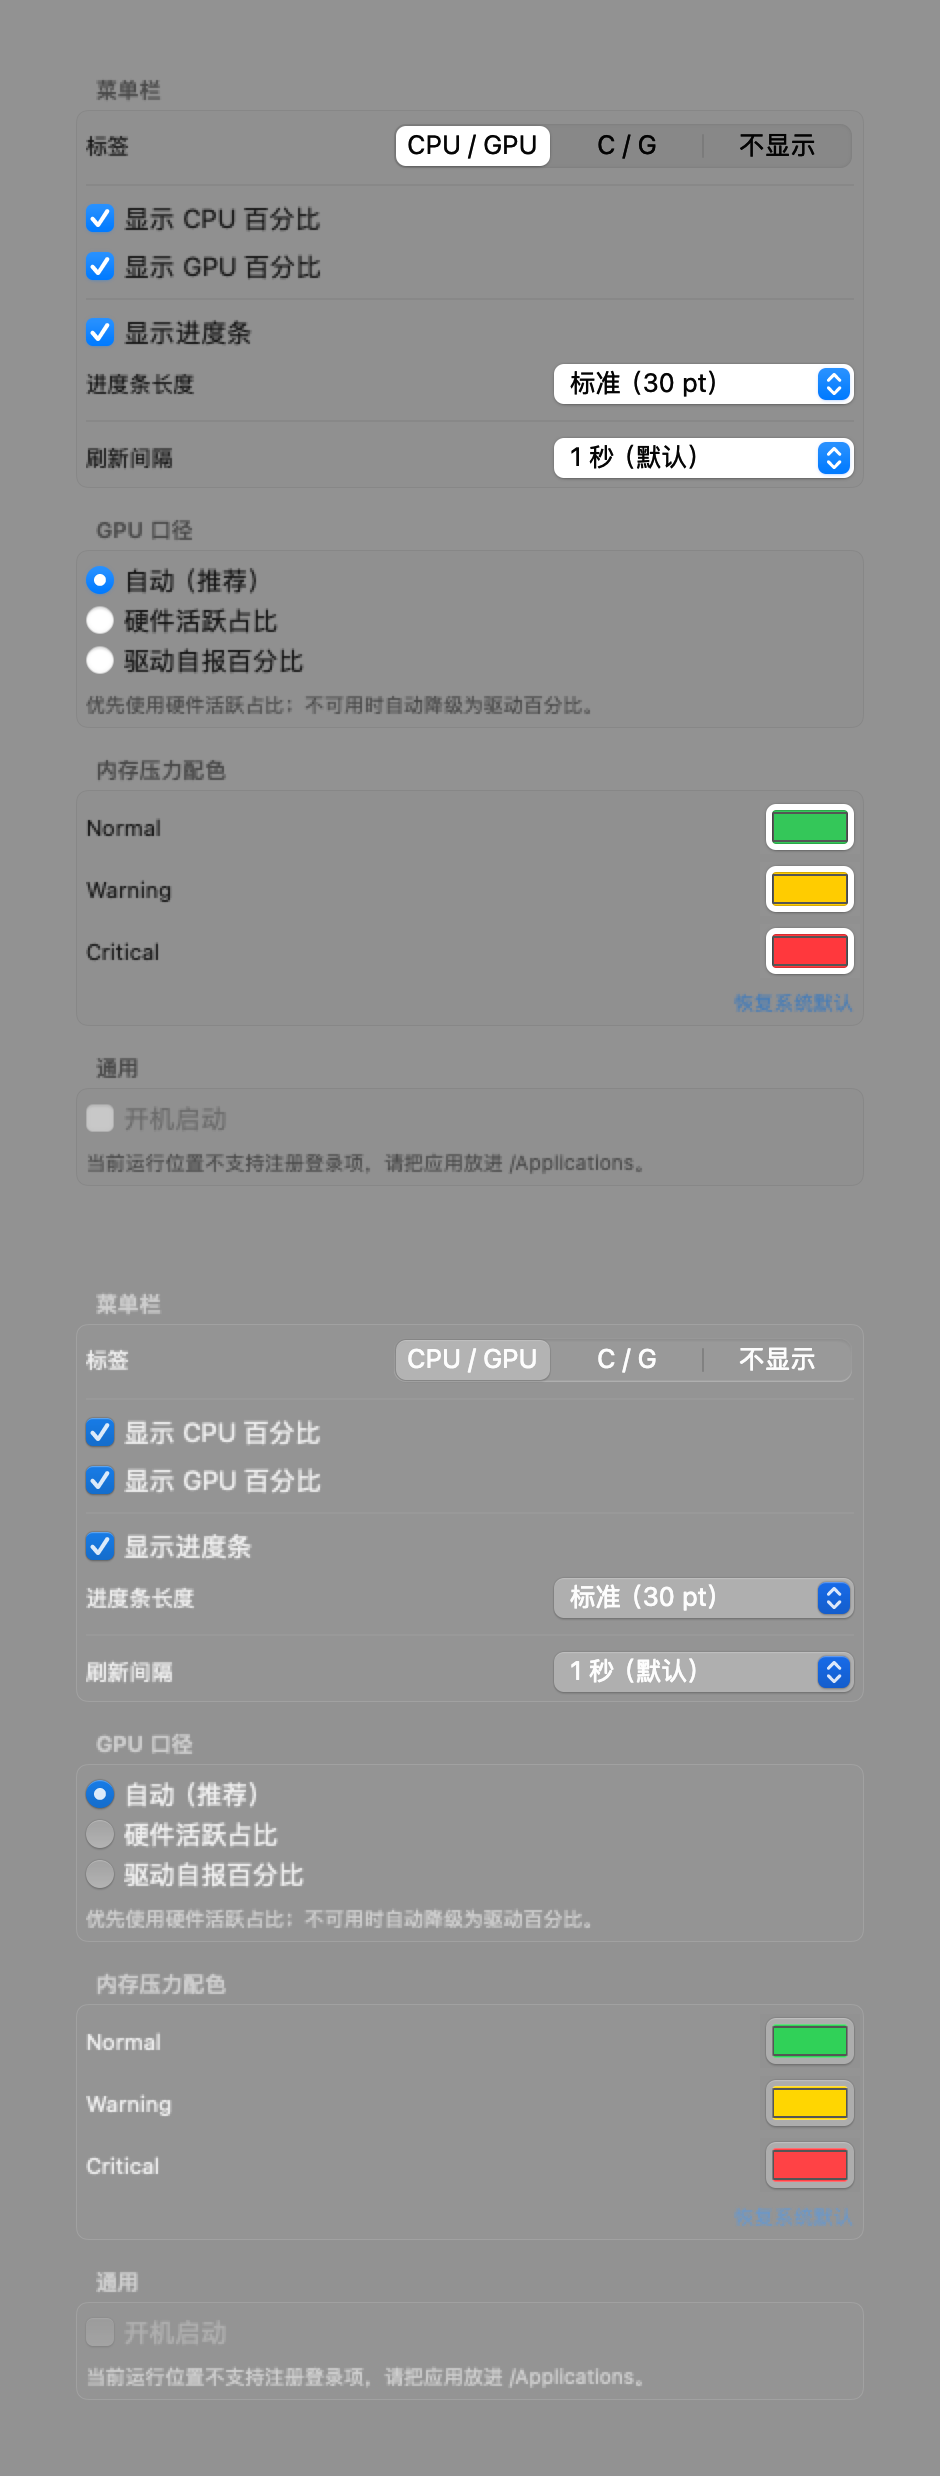
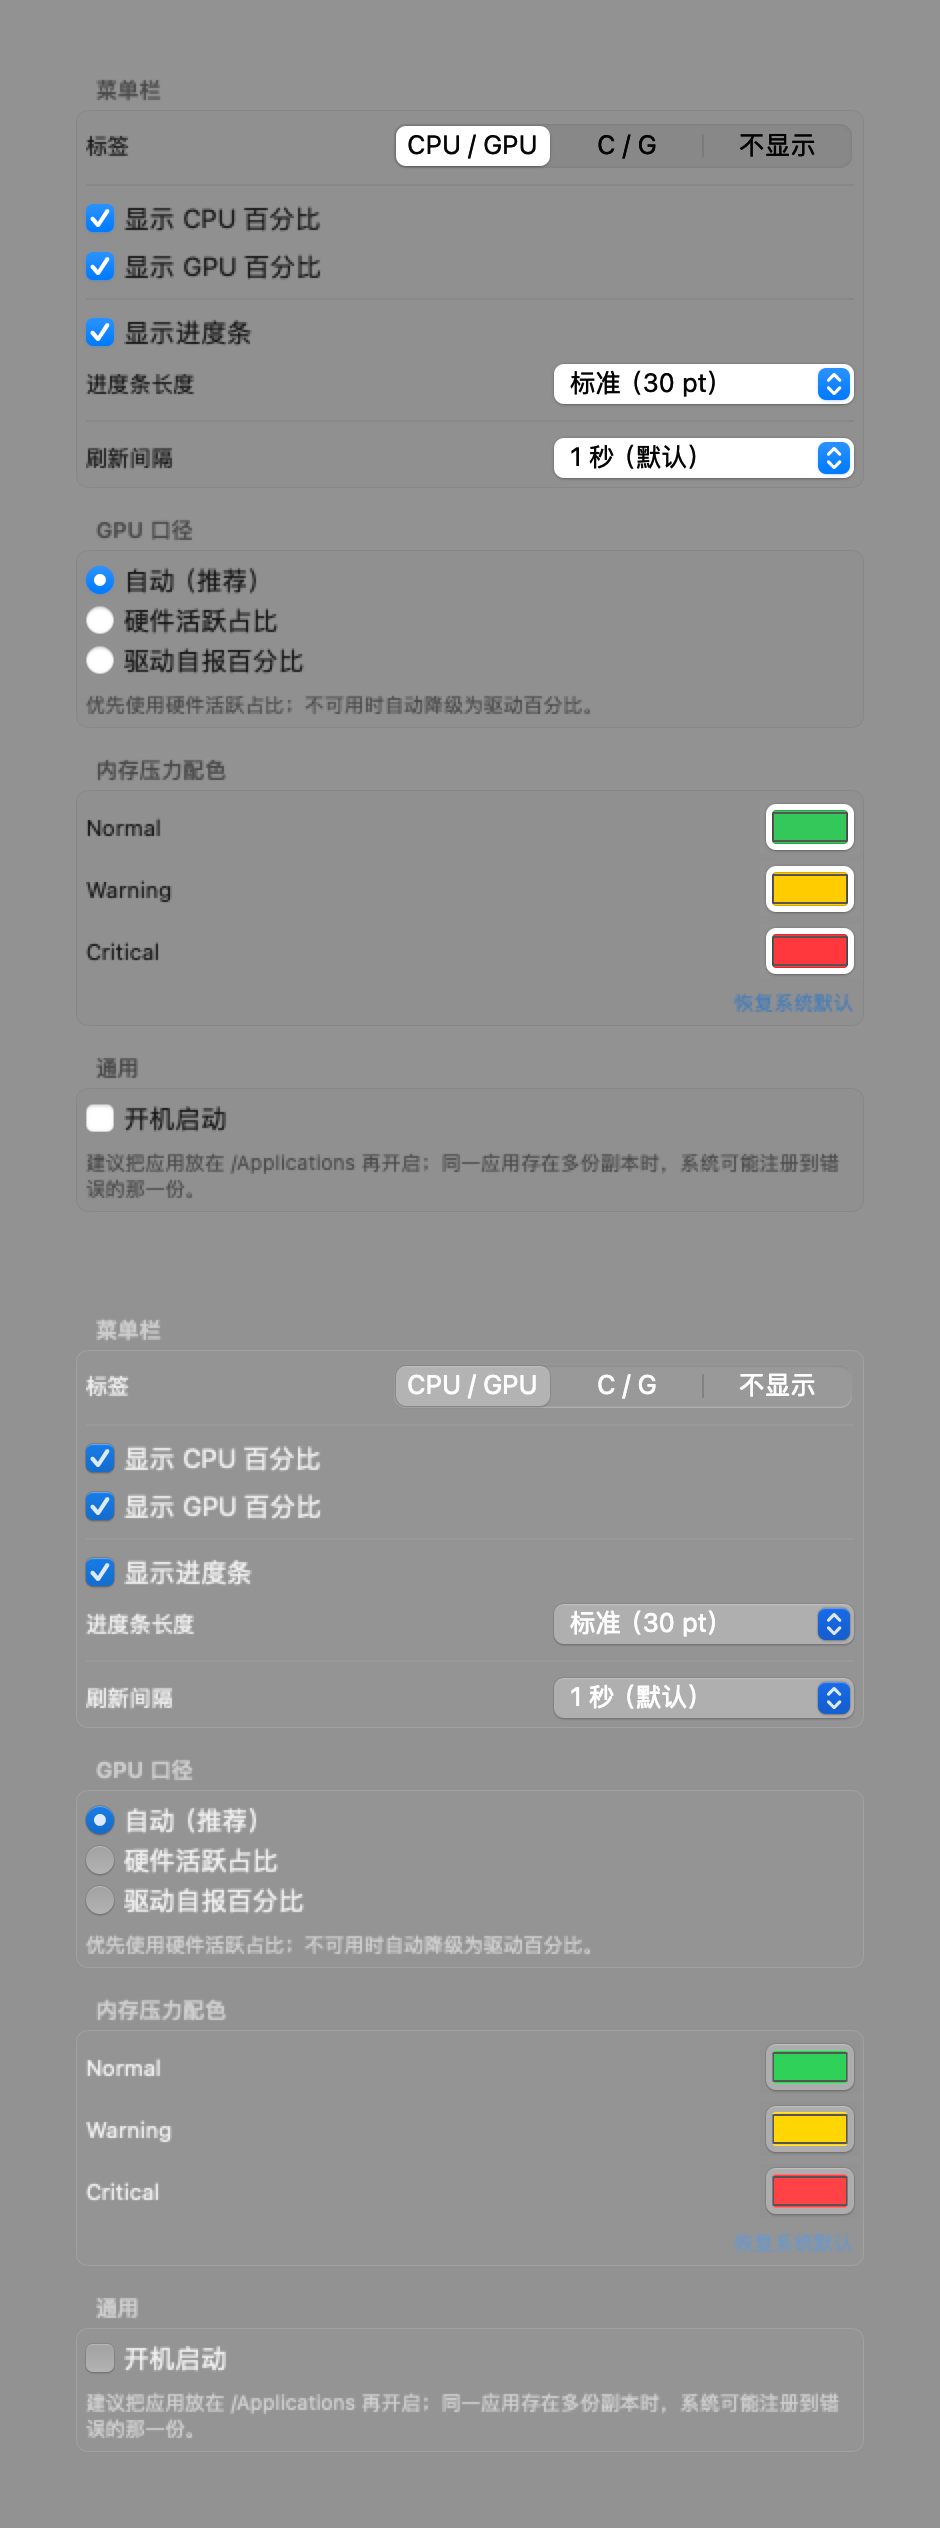
feat: Popover 内存明细对齐活动监视器（物理/已用/已缓存/交换）

diff --git a/MacStatusMonitor/Sources/MacStatusMonitor/App/AppDelegate.swift b/MacStatusMonitor/Sources/MacStatusMonitor/App/AppDelegate.swift
@@ -154,7 +154,8 @@ final class AppDelegate: NSObject, NSApplicationDelegate {
     private func runDumpMode(seconds: TimeInterval) {
         print(String(format: "数据自检：%.0f 秒，口径 = %@", seconds, settings.gpuMetric.displayName))
         print(pad("时间", 10) + pad("CPU%", 7, right: true) + pad("GPU%", 7, right: true)
-              + pad("压力", 9, right: true) + pad("空闲GB", 8, right: true) + "  来源 / 备注")
+              + pad("压力", 9, right: true) + pad("已用GB", 8, right: true)
+              + pad("缓存GB", 8, right: true) + pad("交换GB", 8, right: true) + "  来源 / 备注")
 
         var frames = 0
         let startedAt = Date()
@@ -164,12 +165,15 @@ final class AppDelegate: NSObject, NSApplicationDelegate {
             let cpu = snapshot.cpu.map { String(format: "%.1f", $0) } ?? "—"
             let gpu = snapshot.gpu.map { String(format: "%.1f", $0) } ?? "N/A"
             let pressure = snapshot.memoryPressure?.displayName ?? "?"
-            let free = snapshot.memoryFreeBytes.map { String(format: "%.2f", Double($0) / 1e9) } ?? "—"
+            let used = snapshot.memoryUsedBytes.map { String(format: "%.1f", Double($0) / 1_073_741_824) } ?? "—"
+            let cached = snapshot.memoryCachedBytes.map { String(format: "%.1f", Double($0) / 1_073_741_824) } ?? "—"
+            let swap = snapshot.swapUsedBytes.map { String(format: "%.1f", Double($0) / 1_073_741_824) } ?? "—"
             var note = snapshot.gpuSource ?? ""
             if let reason = snapshot.gpuUnavailableReason { note = reason }
             if let diagnostics = snapshot.gpuDiagnostics { note += "  [hw: \(diagnostics)]" }
             print(self.pad(self.clock(), 10) + self.pad(cpu, 7, right: true) + self.pad(gpu, 7, right: true)
-                  + self.pad(pressure, 9, right: true) + self.pad(free, 8, right: true) + "  " + note)
+                  + self.pad(pressure, 9, right: true) + self.pad(used, 8, right: true)
+                  + self.pad(cached, 8, right: true) + self.pad(swap, 8, right: true) + "  " + note)
         }
 
         DispatchQueue.main.asyncAfter(deadline: .now() + seconds) {
@@ -221,16 +225,20 @@ final class AppDelegate: NSObject, NSApplicationDelegate {
                     self.colorSettings.resetToDefaults()
                 }
 
+                // Popover 与设置窗口分开验证：设置窗口一旦成为 key window，
+                // transient Popover 会自动关闭，同时开会误报成"弹不出来"。
                 let shown = menuBar.debugShowPopover()
-                self.openSettings()
                 DispatchQueue.main.asyncAfter(deadline: .now() + 0.8) {
                     print("popover shown = \(shown) / \(menuBar.debugPopoverShown)  size = \(menuBar.debugPopoverSize)")
-                    if let window = self.settingsWindow?.window {
-                        print("settings window = \(window.frame.size)  visible=\(window.isVisible)")
+                    self.openSettings()
+                    DispatchQueue.main.asyncAfter(deadline: .now() + 0.6) {
+                        if let window = self.settingsWindow?.window {
+                            print("settings window = \(window.frame.size)  visible=\(window.isVisible)")
+                        }
+                        print("login item status = \(self.loginManager.debugStatus)")
+                        print("======================")
+                        NSApp.terminate(nil)
                     }
-                    print("login item status = \(self.loginManager.debugStatus)")
-                    print("======================")
-                    NSApp.terminate(nil)
                 }
             }
         }

diff --git a/MacStatusMonitor/Sources/MonitorKit/MemoryPressureMonitor.swift b/MacStatusMonitor/Sources/MonitorKit/MemoryPressureMonitor.swift
@@ -4,11 +4,17 @@ import Dispatch
 
 /// 内存明细（只用于 Popover 展示，不参与压力等级判定）。
 public struct MemoryDetails: Sendable {
-    public var freeBytes: UInt64
+    public var totalBytes: UInt64
+    /// 活动监视器的「已使用内存」= App Memory + Wired + Compressed
+    public var usedBytes: UInt64
+    /// 活动监视器的「已缓存文件」= 文件页 + 可清除页
+    public var cachedBytes: UInt64
+    /// 其中：App Memory（匿名页 − 可清除页）
+    public var appBytes: UInt64
     public var compressedBytes: UInt64
     public var wiredBytes: UInt64
+    public var freeBytes: UInt64
     public var swapUsedBytes: UInt64
-    public var totalBytes: UInt64
     public var rawLevel: Int32
 }
 
@@ -110,10 +116,6 @@ public final class MemoryPressureMonitor {
     }
 
     public func details() -> MemoryDetails {
-        var freeBytes: UInt64 = 0
-        var compressedBytes: UInt64 = 0
-        var wiredBytes: UInt64 = 0
-
         var vm = vm_statistics64()
         var count = mach_msg_type_number_t(MemoryLayout<vm_statistics64>.size / MemoryLayout<integer_t>.size)
         let result = withUnsafeMutablePointer(to: &vm) { pointer -> kern_return_t in
@@ -121,11 +123,30 @@ public final class MemoryPressureMonitor {
                 host_statistics64(host, HOST_VM_INFO64, rebound, &count)
             }
         }
+
+        var total: UInt64 = 0
+        var app: UInt64 = 0
+        var wired: UInt64 = 0
+        var compressed: UInt64 = 0
+        var cached: UInt64 = 0
+        var free: UInt64 = 0
+
         if result == KERN_SUCCESS {
             let page = UInt64(vm_kernel_page_size)
-            freeBytes = UInt64(vm.free_count) * page
-            compressedBytes = UInt64(vm.compressor_page_count) * page
-            wiredBytes = UInt64(vm.wire_count) * page
+            let internalPages = UInt64(vm.internal_page_count)
+            let externalPages = UInt64(vm.external_page_count)
+            let purgeablePages = UInt64(vm.purgeable_count)
+
+            // 与活动监视器口径一致：
+            //   App Memory   = 匿名页 − 可清除页
+            //   Cached Files = 文件页 + 可清除页
+            //   Memory Used  = App + Wired + Compressed
+            app = (internalPages > purgeablePages ? internalPages - purgeablePages : 0) * page
+            wired = UInt64(vm.wire_count) * page
+            compressed = UInt64(vm.compressor_page_count) * page
+            cached = (externalPages + purgeablePages) * page
+            free = UInt64(vm.free_count) * page
+            total = ProcessInfo.processInfo.physicalMemory
         }
 
         var swap = xsw_usage()
@@ -138,11 +159,14 @@ public final class MemoryPressureMonitor {
         }
 
         return MemoryDetails(
-            freeBytes: freeBytes,
-            compressedBytes: compressedBytes,
-            wiredBytes: wiredBytes,
+            totalBytes: total,
+            usedBytes: app + wired + compressed,
+            cachedBytes: cached,
+            appBytes: app,
+            compressedBytes: compressed,
+            wiredBytes: wired,
+            freeBytes: free,
             swapUsedBytes: swapUsed,
-            totalBytes: ProcessInfo.processInfo.physicalMemory,
             rawLevel: Self.readRawLevel()
         )
     }

diff --git a/MacStatusMonitor/Sources/MacStatusMonitor/Popover/MonitorPopoverView.swift b/MacStatusMonitor/Sources/MacStatusMonitor/Popover/MonitorPopoverView.swift
@@ -31,6 +31,7 @@ struct MonitorPopoverView: View {
                     detail: snapshot.gpuSource ?? "—"
                 )
                 pressureRow
+                memoryRows
             }
             .padding(.horizontal, 14)
             .padding(.vertical, 12)
@@ -76,13 +77,39 @@ struct MonitorPopoverView: View {
                 .foregroundStyle(snapshot.memoryPressure == nil ? .secondary : .primary)
 
             Spacer(minLength: 0)
-
-            if let free = snapshot.memoryFreeBytes, snapshot.physicalMemoryBytes > 0 {
-                Text(String(format: "可用 %.1f GB", Double(free) / 1e9))
-                    .font(.system(size: 10))
-                    .foregroundStyle(.tertiary)
-            }
         }
+    }
+
+    /// 与活动监视器「内存」页一致的四项
+    private var memoryRows: some View {
+        VStack(spacing: 5) {
+            memoryRow("物理内存", snapshot.physicalMemoryBytes)
+            memoryRow("已使用内存", snapshot.memoryUsedBytes)
+            memoryRow("已缓存文件", snapshot.memoryCachedBytes)
+            memoryRow("已使用交换", snapshot.swapUsedBytes)
+        }
+        .padding(.top, 2)
+    }
+
+    private func memoryRow(_ title: String, _ bytes: UInt64?) -> some View {
+        HStack {
+            Text(title)
+                .font(.system(size: 10.5))
+                .foregroundStyle(.secondary)
+            Spacer()
+            Text(Self.formattedSize(bytes))
+                .font(.system(size: 10.5).monospacedDigit())
+                .foregroundStyle(.primary)
+        }
+    }
+
+    static func formattedSize(_ bytes: UInt64?) -> String {
+        guard let bytes else { return "—" }
+        let gib = Double(bytes) / 1_073_741_824
+        if gib >= 1 {
+            return String(format: "%.1f GB", gib)
+        }
+        return String(format: "%.0f MB", Double(bytes) / 1_048_576)
     }
 
     private var pressureColor: Color {

diff --git a/MacStatusMonitor/Sources/MonitorKit/MonitorSnapshot.swift b/MacStatusMonitor/Sources/MonitorKit/MonitorSnapshot.swift
@@ -51,6 +51,10 @@ public struct MonitorSnapshot: Sendable {
     /// 硬件采样器最近一次失败的具体原因（诊断用，不显示在 UI）
     public var gpuDiagnostics: String?
 
+    /// 活动监视器口径的「已使用内存」（App + Wired + Compressed）
+    public var memoryUsedBytes: UInt64?
+    /// 活动监视器口径的「已缓存文件」
+    public var memoryCachedBytes: UInt64?
     public var memoryFreeBytes: UInt64?
     public var memoryCompressedBytes: UInt64?
     public var memoryWiredBytes: UInt64?
@@ -72,6 +76,8 @@ public struct MonitorSnapshot: Sendable {
         gpuDetail: String? = nil,
         gpuUnavailableReason: String? = nil,
         gpuDiagnostics: String? = nil,
+        memoryUsedBytes: UInt64? = nil,
+        memoryCachedBytes: UInt64? = nil,
         memoryFreeBytes: UInt64? = nil,
         memoryCompressedBytes: UInt64? = nil,
         memoryWiredBytes: UInt64? = nil,
@@ -91,6 +97,8 @@ public struct MonitorSnapshot: Sendable {
         self.gpuDetail = gpuDetail
         self.gpuUnavailableReason = gpuUnavailableReason
         self.gpuDiagnostics = gpuDiagnostics
+        self.memoryUsedBytes = memoryUsedBytes
+        self.memoryCachedBytes = memoryCachedBytes
         self.memoryFreeBytes = memoryFreeBytes
         self.memoryCompressedBytes = memoryCompressedBytes
         self.memoryWiredBytes = memoryWiredBytes
@@ -116,6 +124,8 @@ extension MonitorSnapshot: Equatable {
             && lhs.gpuSource == rhs.gpuSource
             && lhs.gpuDetail == rhs.gpuDetail
             && lhs.gpuUnavailableReason == rhs.gpuUnavailableReason
+            && lhs.memoryUsedBytes == rhs.memoryUsedBytes
+            && lhs.memoryCachedBytes == rhs.memoryCachedBytes
             && lhs.memoryFreeBytes == rhs.memoryFreeBytes
             && lhs.memoryCompressedBytes == rhs.memoryCompressedBytes
             && lhs.memoryWiredBytes == rhs.memoryWiredBytes

diff --git a/MacStatusMonitor/Sources/MonitorKit/SystemMonitor.swift b/MacStatusMonitor/Sources/MonitorKit/SystemMonitor.swift
@@ -112,6 +112,8 @@ public final class SystemMonitor {
     private func deliverInitial() {
         let details = memory.details()
         var snapshot = MonitorSnapshot(memoryPressure: memory.refreshLevel())
+        snapshot.memoryUsedBytes = details.usedBytes
+        snapshot.memoryCachedBytes = details.cachedBytes
         snapshot.memoryFreeBytes = details.freeBytes
         snapshot.memoryCompressedBytes = details.compressedBytes
         snapshot.memoryWiredBytes = details.wiredBytes
@@ -153,6 +155,8 @@ public final class SystemMonitor {
             gpuDetail: gpuSample?.detail,
             gpuUnavailableReason: gpuSample == nil ? (gpu.unavailableReason ?? "GPU 数据不可用") : nil,
             gpuDiagnostics: gpu.lastHardwareFailure,
+            memoryUsedBytes: details.usedBytes,
+            memoryCachedBytes: details.cachedBytes,
             memoryFreeBytes: details.freeBytes,
             memoryCompressedBytes: details.compressedBytes,
             memoryWiredBytes: details.wiredBytes,

diff --git a/MacStatusMonitor/Sources/MacStatusMonitor/Debug/PreviewRenderer.swift b/MacStatusMonitor/Sources/MacStatusMonitor/Debug/PreviewRenderer.swift
@@ -214,11 +214,13 @@ enum PreviewRenderer {
             cpuUser: 27, cpuSystem: 11, cpuIdle: 62,
             perCoreCPU: [55, 48, 61, 44, 39, 33, 12, 9, 7, 5],
             loadAverage: [3.21, 2.87, 2.44],
-            gpuSource: "硬件忙时占比（IOReport）",
+            gpuSource: "硬件活跃占比",
+            memoryUsedBytes: 26_700_000_000,
+            memoryCachedBytes: 6_600_000_000,
             memoryFreeBytes: 1_800_000_000,
             memoryCompressedBytes: 4_200_000_000,
             memoryWiredBytes: 3_100_000_000,
-            swapUsedBytes: 512_000_000,
+            swapUsedBytes: 5_600_000_000,
             timestamp: Date()
         )
         let store = MonitorStore(snapshot: sample)

diff --git a/Docs/阶段六-交付说明.md b/Docs/阶段六-交付说明.md
@@ -1,6 +1,6 @@
 # 阶段六 · 交付说明
 
-> 版本 **1.0.0** · 最低系统 **macOS 14.0** · Apple Silicon 原生（arm64）
+> 版本 **1.0.1** · 最低系统 **macOS 14.0** · Apple Silicon 原生（arm64）
 
 ---
 
@@ -9,7 +9,7 @@
 | 文件 | 说明 |
 |---|---|
 | `MacStatusMonitor/dist/MacStatus Monitor.app` | 可直接双击运行的菜单栏应用（当前为 ad-hoc 签名） |
-| `MacStatusMonitor/dist/MacStatusMonitor-1.0.0.zip` | 分发用压缩包（保留 .app 结构与签名） |
+| `MacStatusMonitor/dist/MacStatusMonitor-1.0.1.zip` | 分发用压缩包（保留 .app 结构与签名） |
 | `MacStatusMonitor/` | 完整源码（SwiftPM 工程） |
 | `Tools/Probes/` | 阶段一的采集验证探针（可复现 GPU 占空比实验） |
 | `Docs/阶段一…六` | 各阶段技术文档 |
@@ -20,8 +20,8 @@
 校验（本次产物）：
 
 ```
-SHA-256  MacStatusMonitor-1.0.0.zip
[1 lines of base64/hex data omitted]
+SHA-256  MacStatusMonitor-1.0.1.zip
[1 lines of base64/hex data omitted]
 ```
 
 ---
@@ -122,7 +122,7 @@ spctl -a -vvv -t exec "dist/MacStatus Monitor.app"
 - 公证需要网络与 Apple 账号；`package-app.sh` 在 `NOTARY_PROFILE` 存在时会自动
   `notarytool submit --wait` 并 `stapler staple`；
 - DMG 需要完整磁盘映像权限；在受限 shell 里会跳过（zip 仍然生成），
-  普通终端重跑一次即可得到 `dist/MacStatusMonitor-1.0.0.dmg`；
+  普通终端重跑一次即可得到 `dist/MacStatusMonitor-1.0.1.dmg`；
 - **不要开启 App Sandbox**：GPU 真实值依赖私有 IOReport，本工程按 Developer ID 分发设计。
 
 ---

diff --git a/Docs/阶段三-核心采集.md b/Docs/阶段三-核心采集.md
@@ -124,6 +124,25 @@ Popover 保留原因文本（"当前系统未提供 GPU 硬件计数器"）。
 **内存压力**：启动即读到 Normal（绿框），`DispatchSource` 已就绪；warn/critical 仍需
 `sudo memory_pressure -S` 手动验证（阶段二文档 4.3 有命令）。
 
+**内存明细口径**（与活动监视器「内存」页对齐）：
+
+macOS 没有"一次调用返回这四个数"的公开 API，活动监视器自己也是从
+`host_statistics64(HOST_VM_INFO64)` + `sysctl vm.swapusage` + `hw.memsize` 算的。我们用同样的公式：
+
+```
+page          = vm_kernel_page_size              // Apple Silicon 16384
+App Memory    = (internal_page_count − purgeable_count) × page
+Wired         = wire_count × page
+Compressed    = compressor_page_count × page
+Memory Used   = App + Wired + Compressed
+Cached Files  = (external_page_count + purgeable_count) × page
+Swap Used     = xsw_usage.xsu_used
+Total         = hw.memsize
+```
+
+实测与本机 `vm_stat` 对齐（例如 918624 匿名页 / 23373 可清除页 → 已用 23.2 GiB、缓存 6.9 GiB）。
+全部是公开 API，不需要 root，也不需要私有框架。
+
 **资源占用**（`--soak` / `--dump`）：
 
 | 模式 | 自身 CPU | RSS |

diff --git a/README.md b/README.md
@@ -13,7 +13,8 @@
 - **标签三态**：`CPU/GPU`、`C/G`、不显示；百分比可分别开关
 - **进度条可调**：20 / 30 / 40 pt，也可以关掉只留百分比
 - **内存压力**：用彩色圆角外框包住整个图标，Normal 绿 / Warning 黄 / Critical 红，无多余文字
-- **详情面板**：点击展开 CPU 分项（用户/系统/空闲）、GPU 口径与来源、内存明细
+- **详情面板**：CPU 分项（用户/系统/空闲）、GPU 口径与来源，以及活动监视器同口径的
+  物理内存 / 已使用内存 / 已缓存文件 / 已使用交换
 - **GPU 口径可选**：硬件活跃占比（推荐）/ 驱动自报百分比 / 自动降级
 - **设置窗口**：标签、条长、百分比、刷新间隔、GPU 口径、压力三色、开机启动
 - **低占用**：单一 1 Hz 定时器，值不变就不重绘
@@ -34,7 +35,7 @@
 
 ### 下载
 
-到 [Releases](../../releases) 下载 `MacStatusMonitor-1.0.0.zip`，解压后把
+到 [Releases](../../releases) 下载 `MacStatusMonitor-1.0.1.zip`，解压后把
 `MacStatus Monitor.app` 拖进 `/Applications`。
 
 > 当前发布包是 ad-hoc 签名（没有 Developer ID），从网络下载后 Gatekeeper 会拦截：
